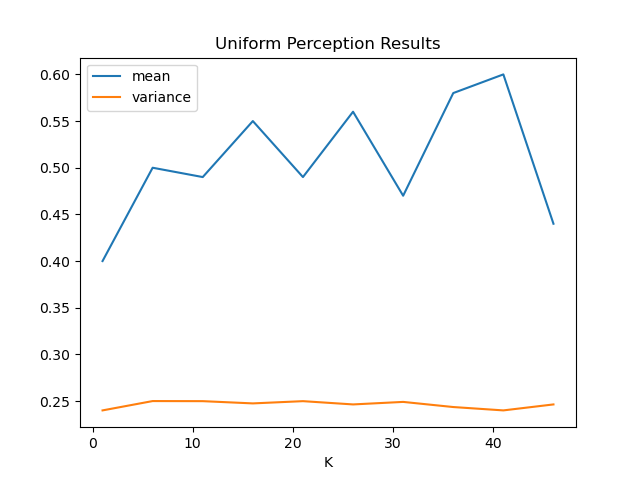
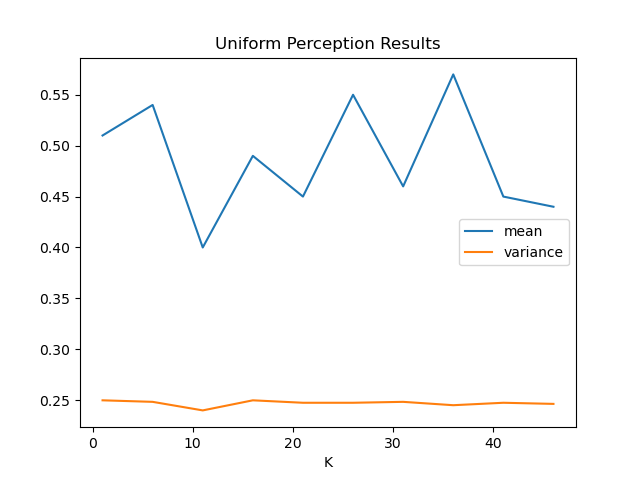
progress

diff --git a/distributions/competence.py b/distributions/competence.py
@@ -11,7 +11,7 @@ import scipy.stats as stats
 
 def normal(N: int, K: int, weights: np.ndarray) -> np.ndarray:
   mu, sigma, lower, upper = 0.5, 0.1, 0, 1
-  return np.array(stats.truncnorm((lower - mu) / sigma, (upper - mu) / sigma, loc=mu, scale=sigma).rvs((N,N)))
+  return np.array(stats.truncnorm((lower - mu) / sigma, (upper - mu) / sigma, loc=mu, scale=sigma).rvs(N))
 
 def weighted(N: int, K: int, weights: np.ndarray) -> np.ndarray:
   competences = np.zeros(N)
